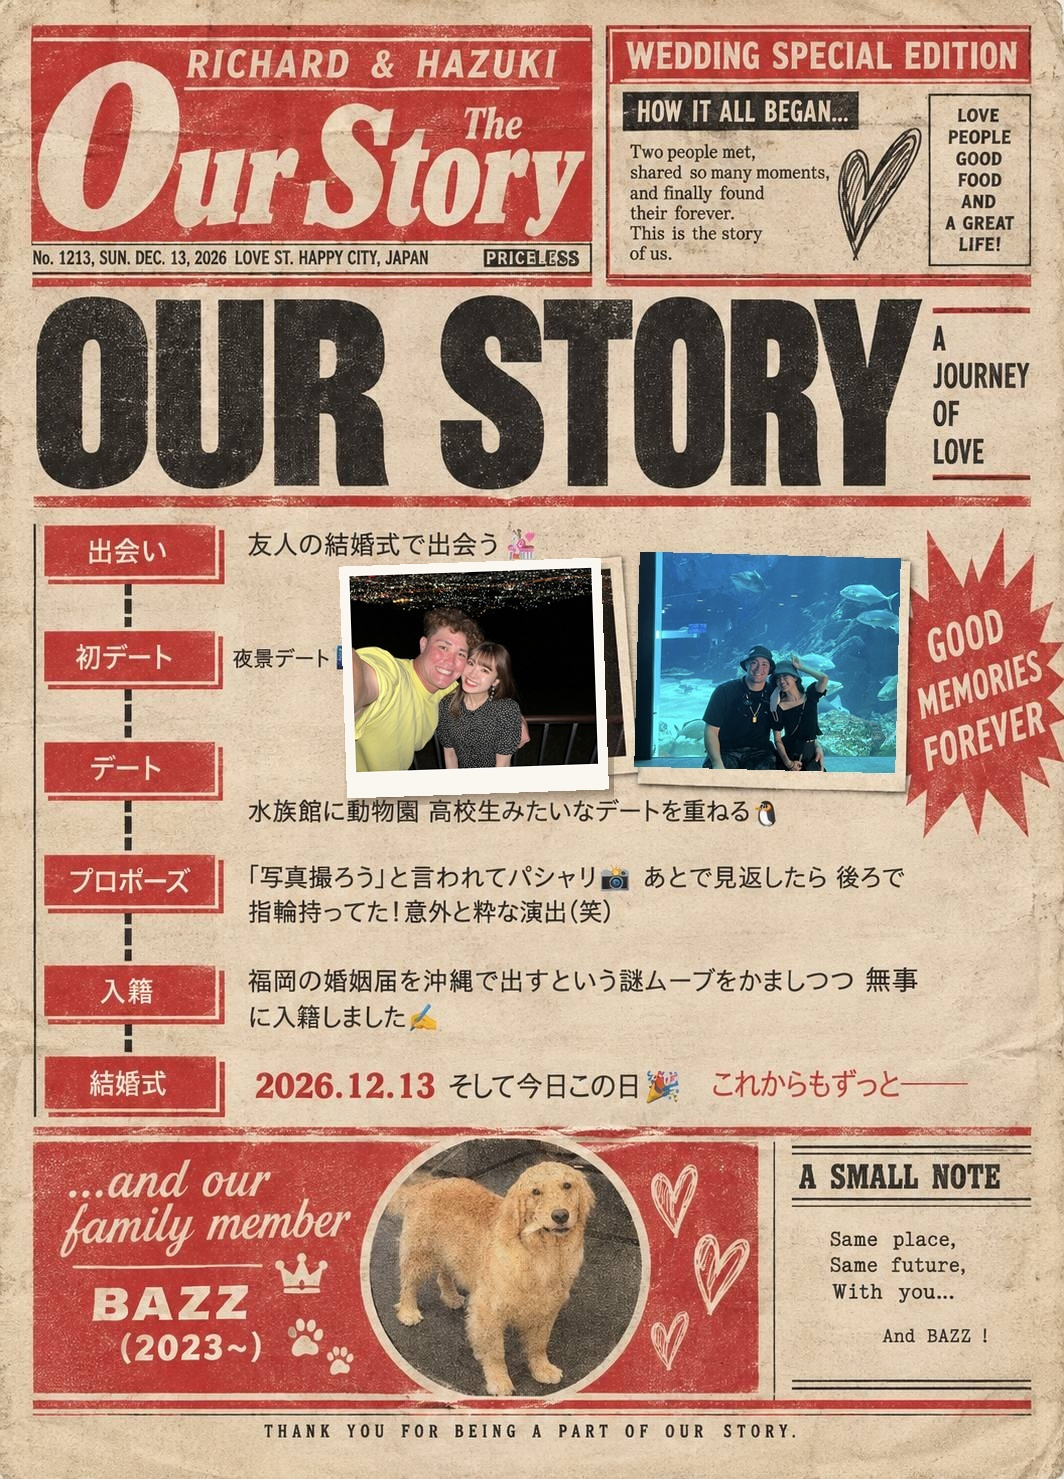
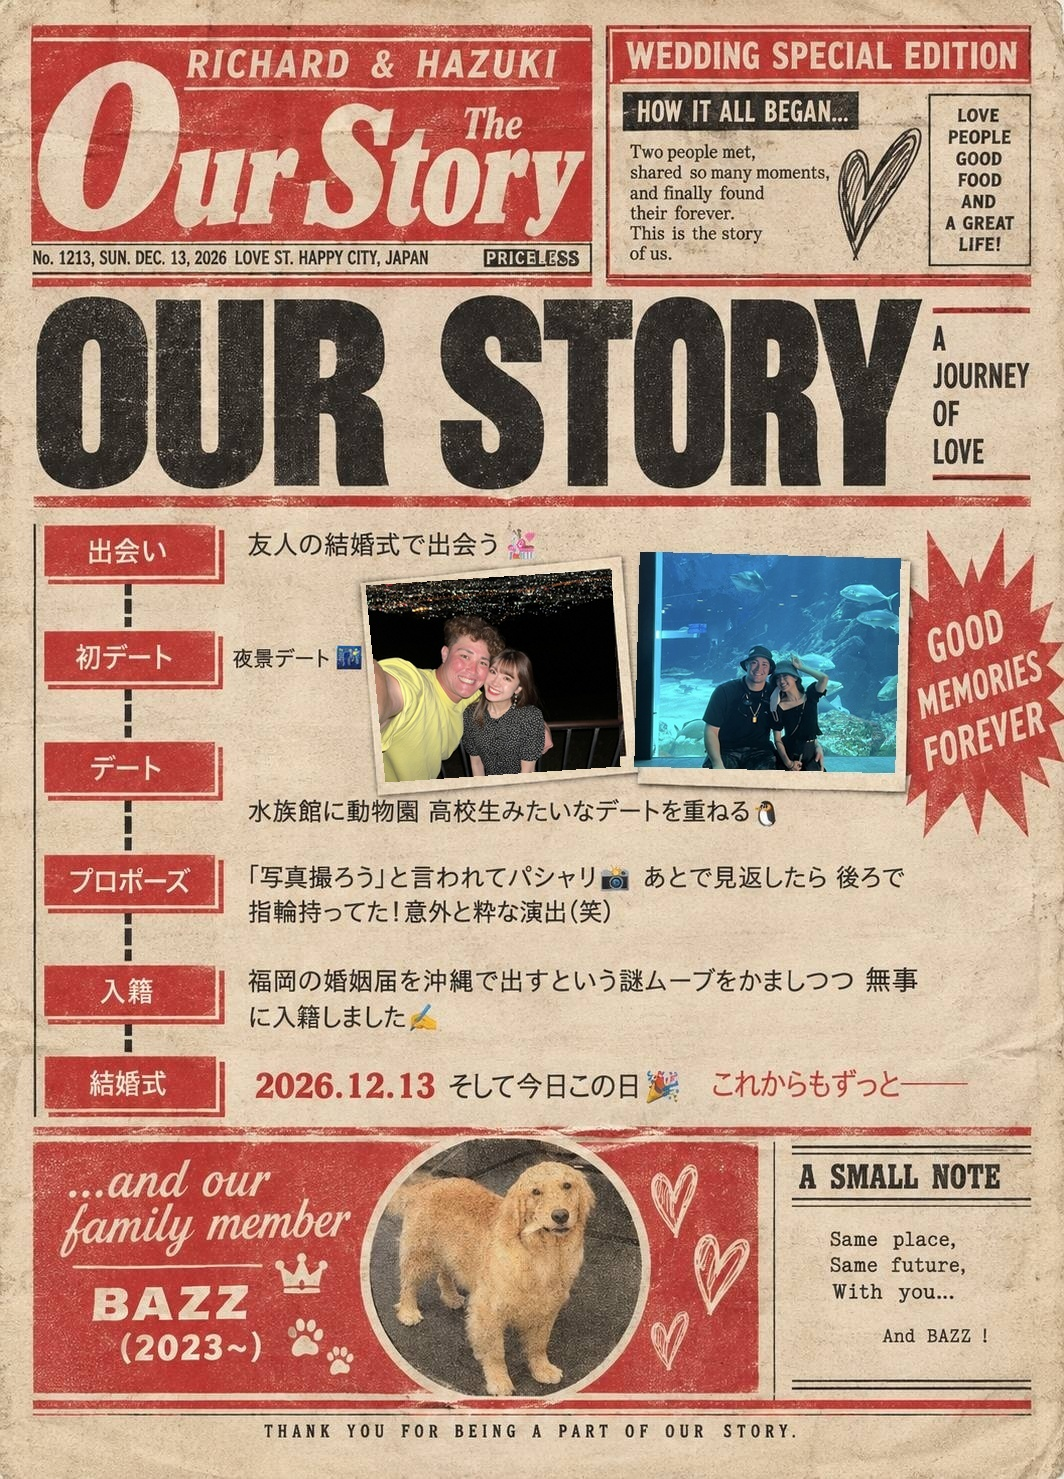
プロフィールブック: OUR STORY左ポラロイドを元のクリーム枠に統一し、12ページ・見開き揃えに並べ替え
- 左ポラロイドは元アートワークの枠を復元し写真だけ透視変換ではめ込み(右と同じ方式)
- 被っていた絵文字・本文も復元
- BAZZコラージュページを削除して12ページ化(中綴じ対応)
- 見開き: ご挨拶|OUR STORY / Richard|Hazuki / 生い立ちR|H / Q&A|クイズ / BAZZ|ご案内

Claude-Session: https://claude.ai/code/session_015f3gzgDT2z4eLoNkfAU2vW

Changed region(s): [[0.3102, 0.3732, 0.5893, 0.5598]]

diff --git a/profile-book.html b/profile-book.html
@@ -600,27 +600,22 @@
   <div class="checker"></div>
 </div>
 
-<!-- P3: GROOM — scrapbook collage (owner-supplied artwork) -->
-<div class="page" style="background: #24402E;">
-  <img src="profile-richard.jpg" alt="" style="position: absolute; inset: 0; width: 100%; height: 100%; object-fit: cover; object-position: center;">
-</div>
-
-<!-- P4: BRIDE — scrapbook collage (owner-supplied artwork) -->
-<div class="page" style="background: #E9A6B3;">
-  <img src="profile-hazuki.jpg" alt="" style="position: absolute; inset: 0; width: 100%; height: 100%; object-fit: cover; object-position: center;">
-</div>
-
-<!-- P5: Q&A — full-page newspaper artwork (owner-supplied) -->
-<div class="page" style="background: #D9CDB4;">
-  <img src="qa-page.jpg" alt="" style="position: absolute; inset: 0; width: 100%; height: 100%; object-fit: cover; object-position: center;">
-</div>
-
-<!-- P6: OUR STORY — full-page newspaper artwork (owner-supplied) -->
+<!-- P3: OUR STORY — full-page newspaper artwork (owner-supplied) -->
 <div class="page" style="background: #D9CDB4;">
   <img src="story-page.jpg" alt="" style="position: absolute; inset: 0; width: 100%; height: 100%; object-fit: cover; object-position: center;">
 </div>
 
-<!-- P7: 生い立ち RICHARD (owner-supplied full-page image, placeholder) -->
+<!-- P4: GROOM — scrapbook collage (owner-supplied artwork) -->
+<div class="page" style="background: #24402E;">
+  <img src="profile-richard.jpg" alt="" style="position: absolute; inset: 0; width: 100%; height: 100%; object-fit: cover; object-position: center;">
+</div>
+
+<!-- P5: BRIDE — scrapbook collage (owner-supplied artwork) -->
+<div class="page" style="background: #E9A6B3;">
+  <img src="profile-hazuki.jpg" alt="" style="position: absolute; inset: 0; width: 100%; height: 100%; object-fit: cover; object-position: center;">
+</div>
+
+<!-- P6: 生い立ち RICHARD (owner-supplied full-page image, placeholder) -->
 <div class="page" style="background: #F1E8D5;">
   <div style="position: absolute; inset: 8mm; border: 1mm dashed #C9B394; border-radius: 4mm;
        display: flex; flex-direction: column; align-items: center; justify-content: center; gap: 4mm;">
@@ -630,7 +625,7 @@
   </div>
 </div>
 
-<!-- P8: 生い立ち HAZUKI (owner-supplied full-page image, placeholder) -->
+<!-- P7: 生い立ち HAZUKI (owner-supplied full-page image, placeholder) -->
 <div class="page" style="background: #F6E3E7;">
   <div style="position: absolute; inset: 8mm; border: 1mm dashed #D9A8B4; border-radius: 4mm;
        display: flex; flex-direction: column; align-items: center; justify-content: center; gap: 4mm;">
@@ -640,19 +635,19 @@
   </div>
 </div>
 
-<!-- P9: BAZZ — full-page collage (owner-supplied artwork) -->
-<div class="page" style="background: #F5A800;">
-  <img src="bazz-page.jpg" alt="" style="position: absolute; inset: 0; width: 100%; height: 100%; object-fit: cover; object-position: center;">
+<!-- P8: Q&A — full-page newspaper artwork (owner-supplied) -->
+<div class="page" style="background: #D9CDB4;">
+  <img src="qa-page.jpg" alt="" style="position: absolute; inset: 0; width: 100%; height: 100%; object-fit: cover; object-position: center;">
 </div>
 
-<!-- P10: BAZZ PHOTO COLLAGE (owner-supplied artwork + photo swaps) -->
-<div class="page" style="background: #F1E8DA;">
-  <img src="bazz-collage.jpg" alt="" style="position: absolute; inset: 0; width: 100%; height: 100%; object-fit: cover; object-position: center;">
-</div>
-
-<!-- P10: QUIZ — full-page artwork with real photo cutouts (owner-supplied + retouch) -->
+<!-- P9: QUIZ — full-page artwork with real photo cutouts (owner-supplied + retouch) -->
 <div class="page" style="background: #D32C42;">
   <img src="quiz-page.jpg" alt="" style="position: absolute; inset: 0; width: 100%; height: 100%; object-fit: cover; object-position: center;">
+</div>
+
+<!-- P10: BAZZ — full-page collage (owner-supplied artwork) -->
+<div class="page" style="background: #F5A800;">
+  <img src="bazz-page.jpg" alt="" style="position: absolute; inset: 0; width: 100%; height: 100%; object-fit: cover; object-position: center;">
 </div>
 
 <!-- P11: INFORMATION + QR (teal) -->
@@ -686,7 +681,7 @@
   <div class="checker"></div>
 </div>
 
-<!-- P8: BACK COVER (ink neon) -->
+<!-- P12: BACK COVER (ink neon) -->
 <div class="page back pg-ink">
   <div class="checker"></div>
   <div class="body">
